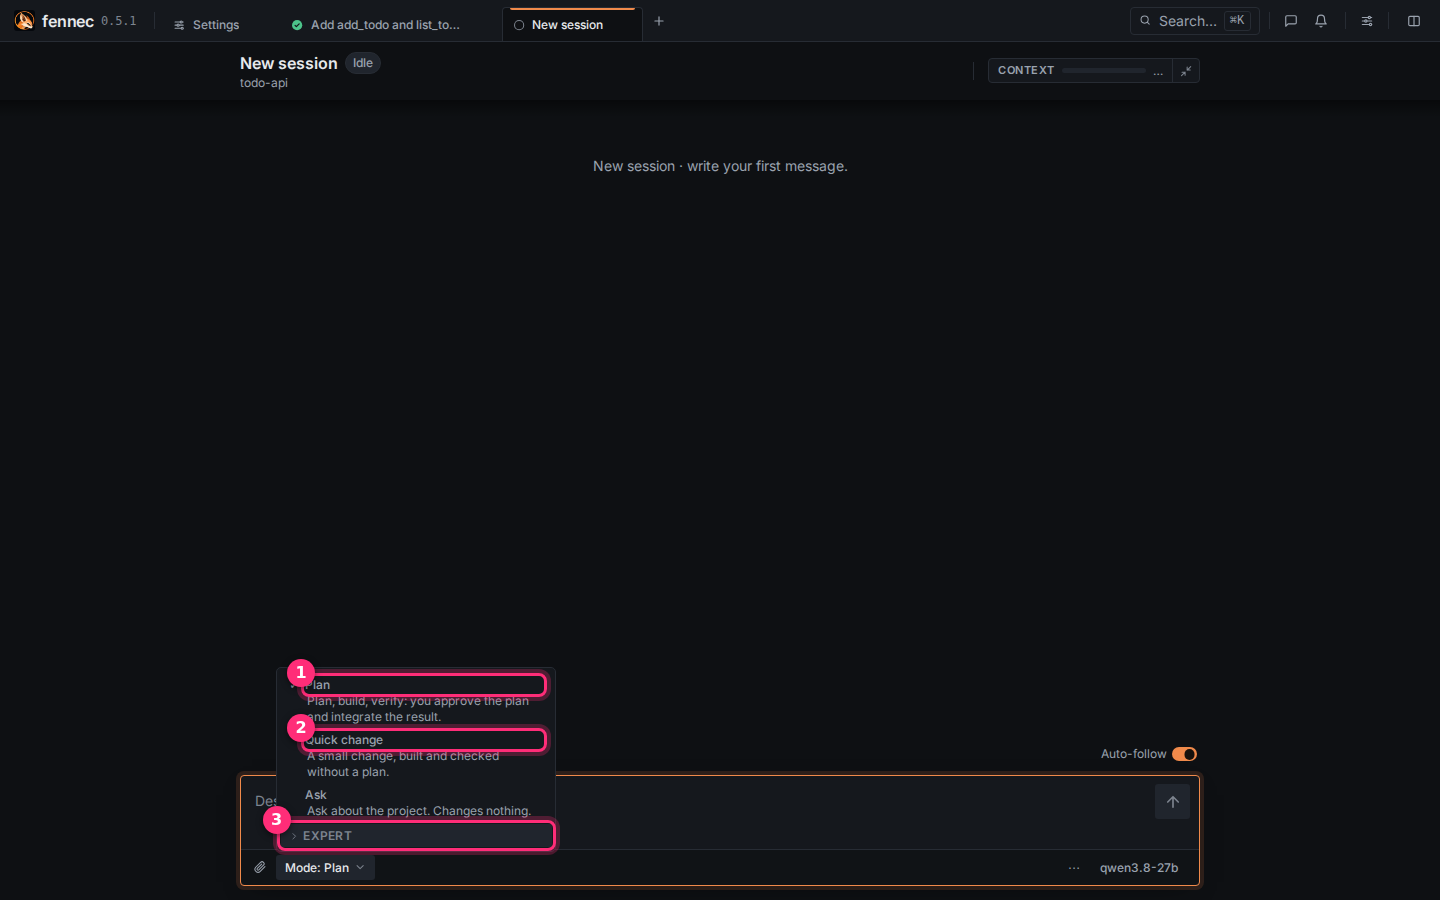
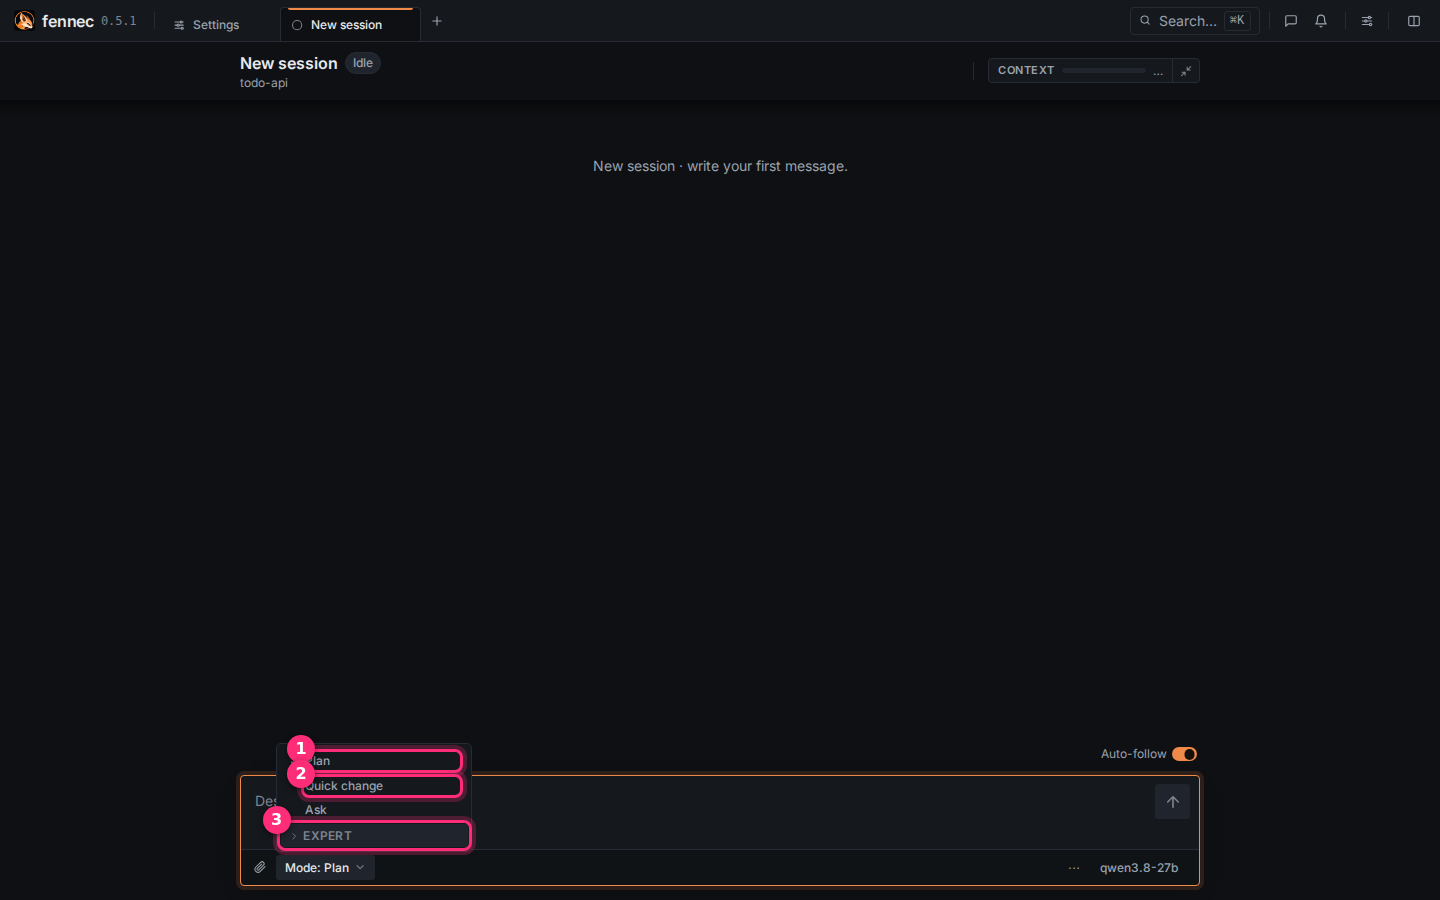
fix(ui): keep menu choice descriptions in their tooltip
The description line under each choice made the menu long; the label
plus "Mode:" on the trigger is enough, and the description stays in
the tooltip.

Assisted-by: Claude Code:claude-opus-5-5

Changed region(s): [[0.1875, 0.7156, 0.4062, 0.9644], [0.1875, 0.0, 0.3125, 0.0311], [0.3438, 0.0, 0.4375, 0.0311]]

diff --git a/web/src/components/ui/ChoiceMenu.tsx b/web/src/components/ui/ChoiceMenu.tsx
@@ -157,15 +157,10 @@ export function ChoiceMenu({
                           close();
                         }}
                       >
-                        <span className="flex w-full flex-col">
-                          <span className="flex w-full items-center gap-1.5">
-                            <span className="w-3 shrink-0 text-left">{choice.value === value ? '✓' : ''}</span>
-                            {choice.color !== undefined ? <ChoiceDot color={choice.color} /> : null}
-                            <span className="min-w-0 grow">{choice.label}</span>
-                          </span>
-                          {choice.description ? (
-                            <span className="pl-[1.125rem] text-xs font-normal text-muted">{choice.description}</span>
-                          ) : null}
+                        <span className="flex w-full items-center gap-1.5">
+                          <span className="w-3 shrink-0 text-left">{choice.value === value ? '✓' : ''}</span>
+                          {choice.color !== undefined ? <ChoiceDot color={choice.color} /> : null}
+                          <span className="min-w-0 grow">{choice.label}</span>
                         </span>
                       </Button>
                     ))}

diff --git a/web/src/components/session/IntentPicker.tsx b/web/src/components/session/IntentPicker.tsx
@@ -150,7 +150,6 @@ export function IntentPicker({
         value={value}
         onChange={handleChange}
         trigger={t('intentTrigger', { label: triggerLabel })}
-        width="w-80"
       />
       {selection.stepByStep && (
         <Button
